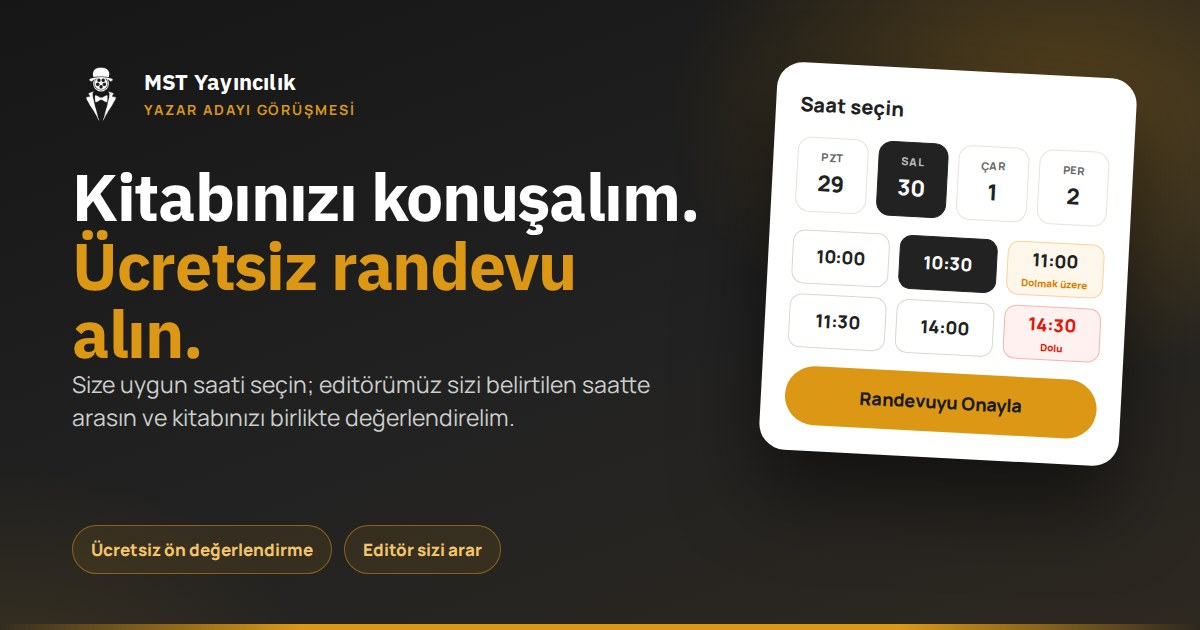
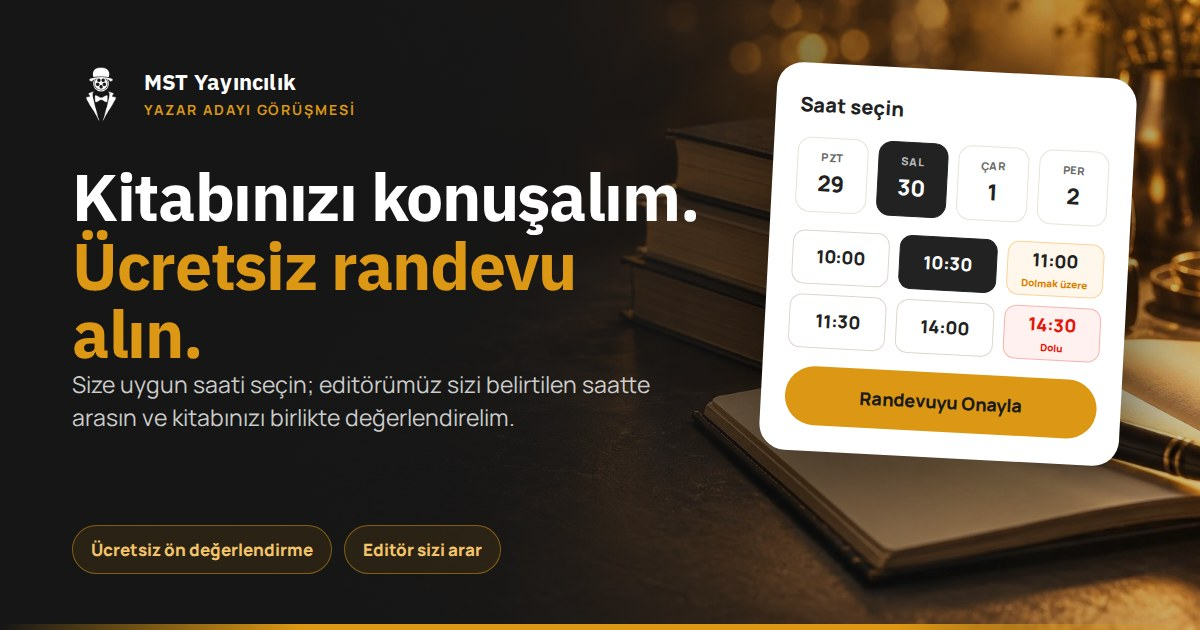
Tanıtım sayfası: giriş arka planına masa fotoğrafı
- ChatGPT ile üretilen masa fotoğrafı (kitaplar, defter, dolma kalem,
  altın ışık) girişin arka planında: sağda görünür, solda metin okunaklı
  kalsın diye koyulaşan örtü. WebP: masaüstü 56 KB, mobil 24 KB.
- Paylaşım görselleri (Yazar Paneli + randevu) aynı fotoğrafla yeniden
  üretildi.

Claude-Session: https://claude.ai/code/session_016jxJxK4dnTMYkiSJfzshfK

Changed region(s): [[0.5858, 0.0, 1.0, 1.0], [0.5242, 0.2111, 0.6475, 0.4524], [0.0, 0.9349, 0.1233, 1.0]]

diff --git a/mst-randevu/assets/uygulama.css b/mst-randevu/assets/uygulama.css
@@ -33,10 +33,12 @@ html { scroll-behavior: smooth; }
    -------------------------------------------------------------------------- */
 .uyg-hero {
   position: relative; overflow: hidden; color: #fff;
+  /* Masa fotoğrafı (kitaplar, defter, altın ışık) sağda; solda metin okunaklı kalsın diye koyulaşan örtü */
   background:
-    radial-gradient(700px 380px at 85% 10%, rgba(220, 152, 20, .22), transparent 60%),
-    radial-gradient(600px 400px at 0% 100%, rgba(220, 152, 20, .08), transparent 60%),
-    linear-gradient(160deg, #161616 0%, #222222 55%, #2d2820 100%);
+    linear-gradient(90deg, #161616 0%, rgba(22, 22, 22, .94) 30%, rgba(22, 22, 22, .55) 58%, rgba(22, 22, 22, .2) 100%),
+    linear-gradient(0deg, rgba(22, 22, 22, .9) 0%, rgba(22, 22, 22, 0) 32%),
+    url("hero-masa.webp") right center / cover no-repeat,
+    #161616;
   padding: 72px 0 96px;
 }
 .uyg-hero__in { display: grid; grid-template-columns: 1.05fr .95fr; align-items: center; gap: 48px; }
@@ -296,7 +298,13 @@ html { scroll-behavior: smooth; }
   .uyg-rota li:nth-child(4)::after { display: none; }
 }
 @media (max-width: 860px) {
-  .uyg-hero { padding: 48px 0 88px; }
+  .uyg-hero {
+    padding: 48px 0 88px;
+    background:
+      linear-gradient(180deg, rgba(22, 22, 22, .96) 0%, rgba(22, 22, 22, .9) 42%, rgba(22, 22, 22, .5) 70%, rgba(22, 22, 22, .85) 100%),
+      url("hero-masa-mobil.webp") 70% 100% / cover no-repeat,
+      #161616;
+  }
   .uyg-hero__in, .uyg-iki, .uyg-kapanis__in { grid-template-columns: 1fr; }
   .uyg-hero__metin { text-align: center; }
   .uyg-hero__alt { margin-left: auto; margin-right: auto; }
